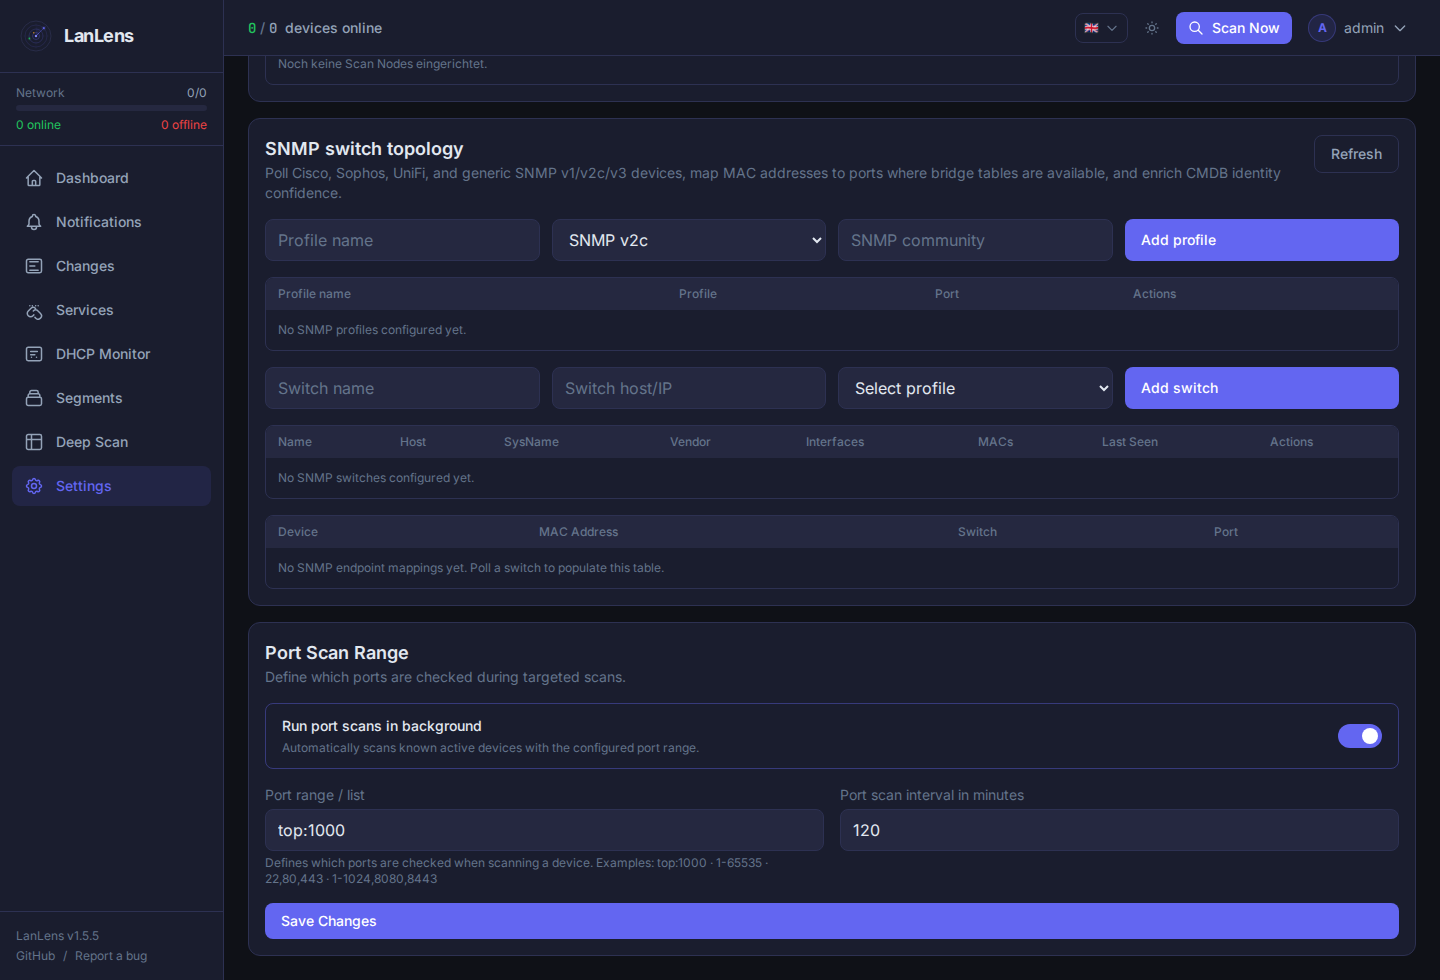
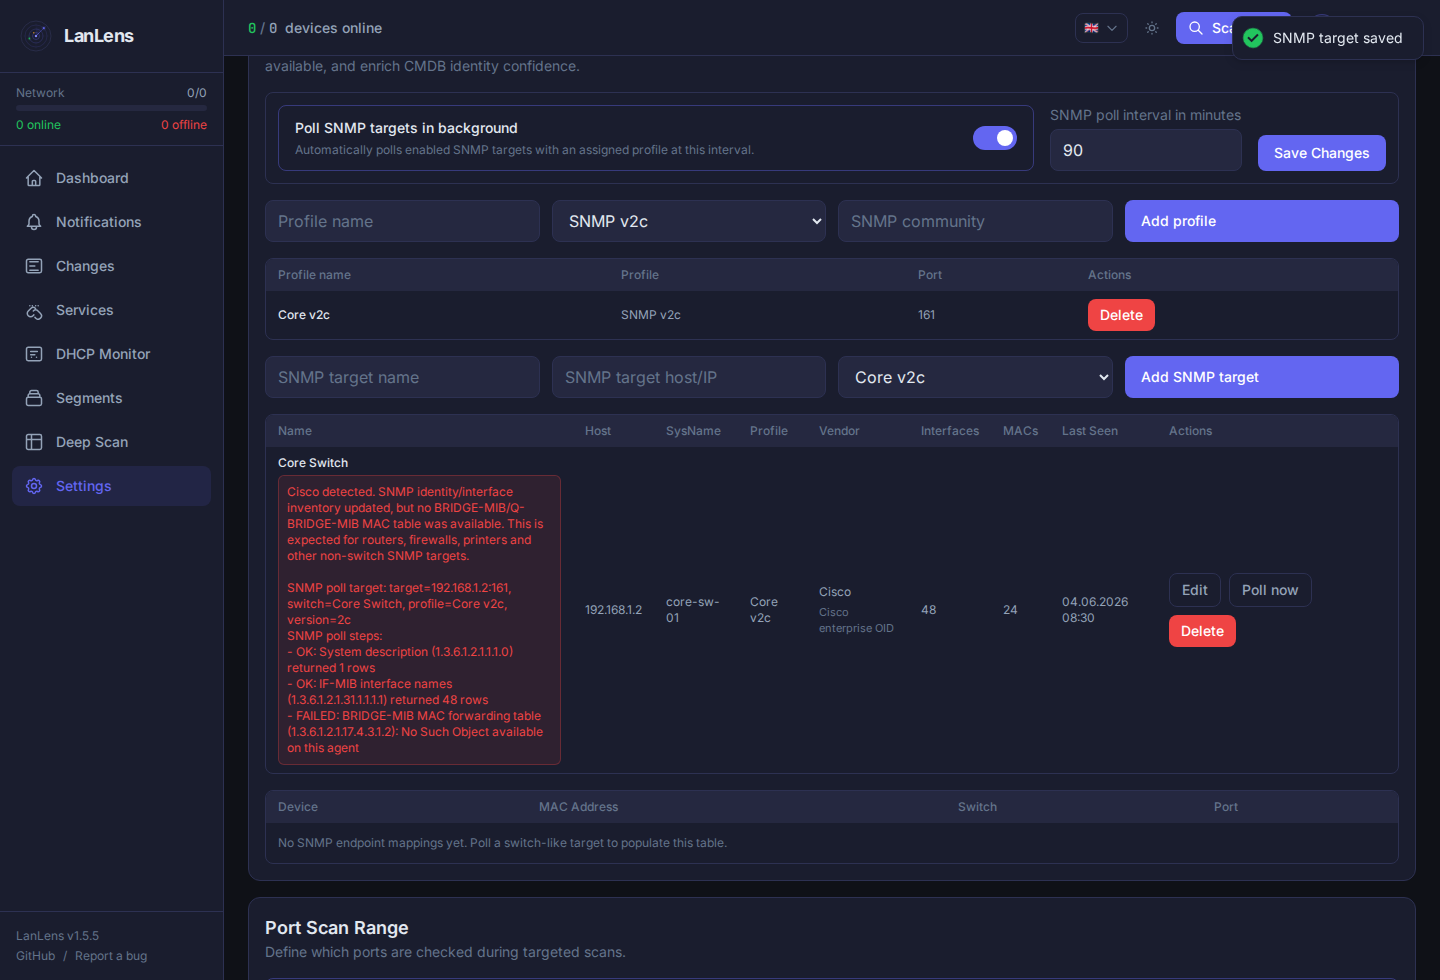
b20260604-1254 Fix toggle thumb alignment

diff --git a/frontend/src/pages/Settings.tsx b/frontend/src/pages/Settings.tsx
@@ -188,7 +188,7 @@ function ToggleSwitch({
         <span className="mt-1 block text-xs text-text-subtle">{description}</span>
       </span>
       <span className={`relative h-6 w-11 shrink-0 rounded-full transition-colors ${checked ? 'bg-primary' : 'bg-border'}`}>
-        <span className={`absolute top-1 h-4 w-4 rounded-full bg-white transition-transform ${checked ? 'translate-x-6' : 'translate-x-1'}`} />
+        <span className={`absolute left-0 top-1 h-4 w-4 rounded-full bg-white transition-transform ${checked ? 'translate-x-6' : 'translate-x-1'}`} />
       </span>
     </button>
   )
@@ -218,7 +218,7 @@ function CompactToggle({
       title={label}
     >
       <span className={`relative h-4 w-7 shrink-0 rounded-full transition-colors ${checked ? 'bg-primary' : 'bg-border'}`}>
-        <span className={`absolute top-0.5 h-3 w-3 rounded-full bg-white transition-transform ${checked ? 'translate-x-3.5' : 'translate-x-0.5'}`} />
+        <span className={`absolute left-0 top-0.5 h-3 w-3 rounded-full bg-white transition-transform ${checked ? 'translate-x-3.5' : 'translate-x-0.5'}`} />
       </span>
     </button>
   )
@@ -2512,7 +2512,7 @@ export default function Settings() {
                           current[key] ? 'bg-primary' : 'bg-border'
                         }`}
                       >
-                        <span className={`absolute top-1 h-4 w-4 rounded-full bg-white transition-transform ${
+                        <span className={`absolute left-0 top-1 h-4 w-4 rounded-full bg-white transition-transform ${
                           current[key] ? 'translate-x-6' : 'translate-x-1'
                         }`} />
                       </button>